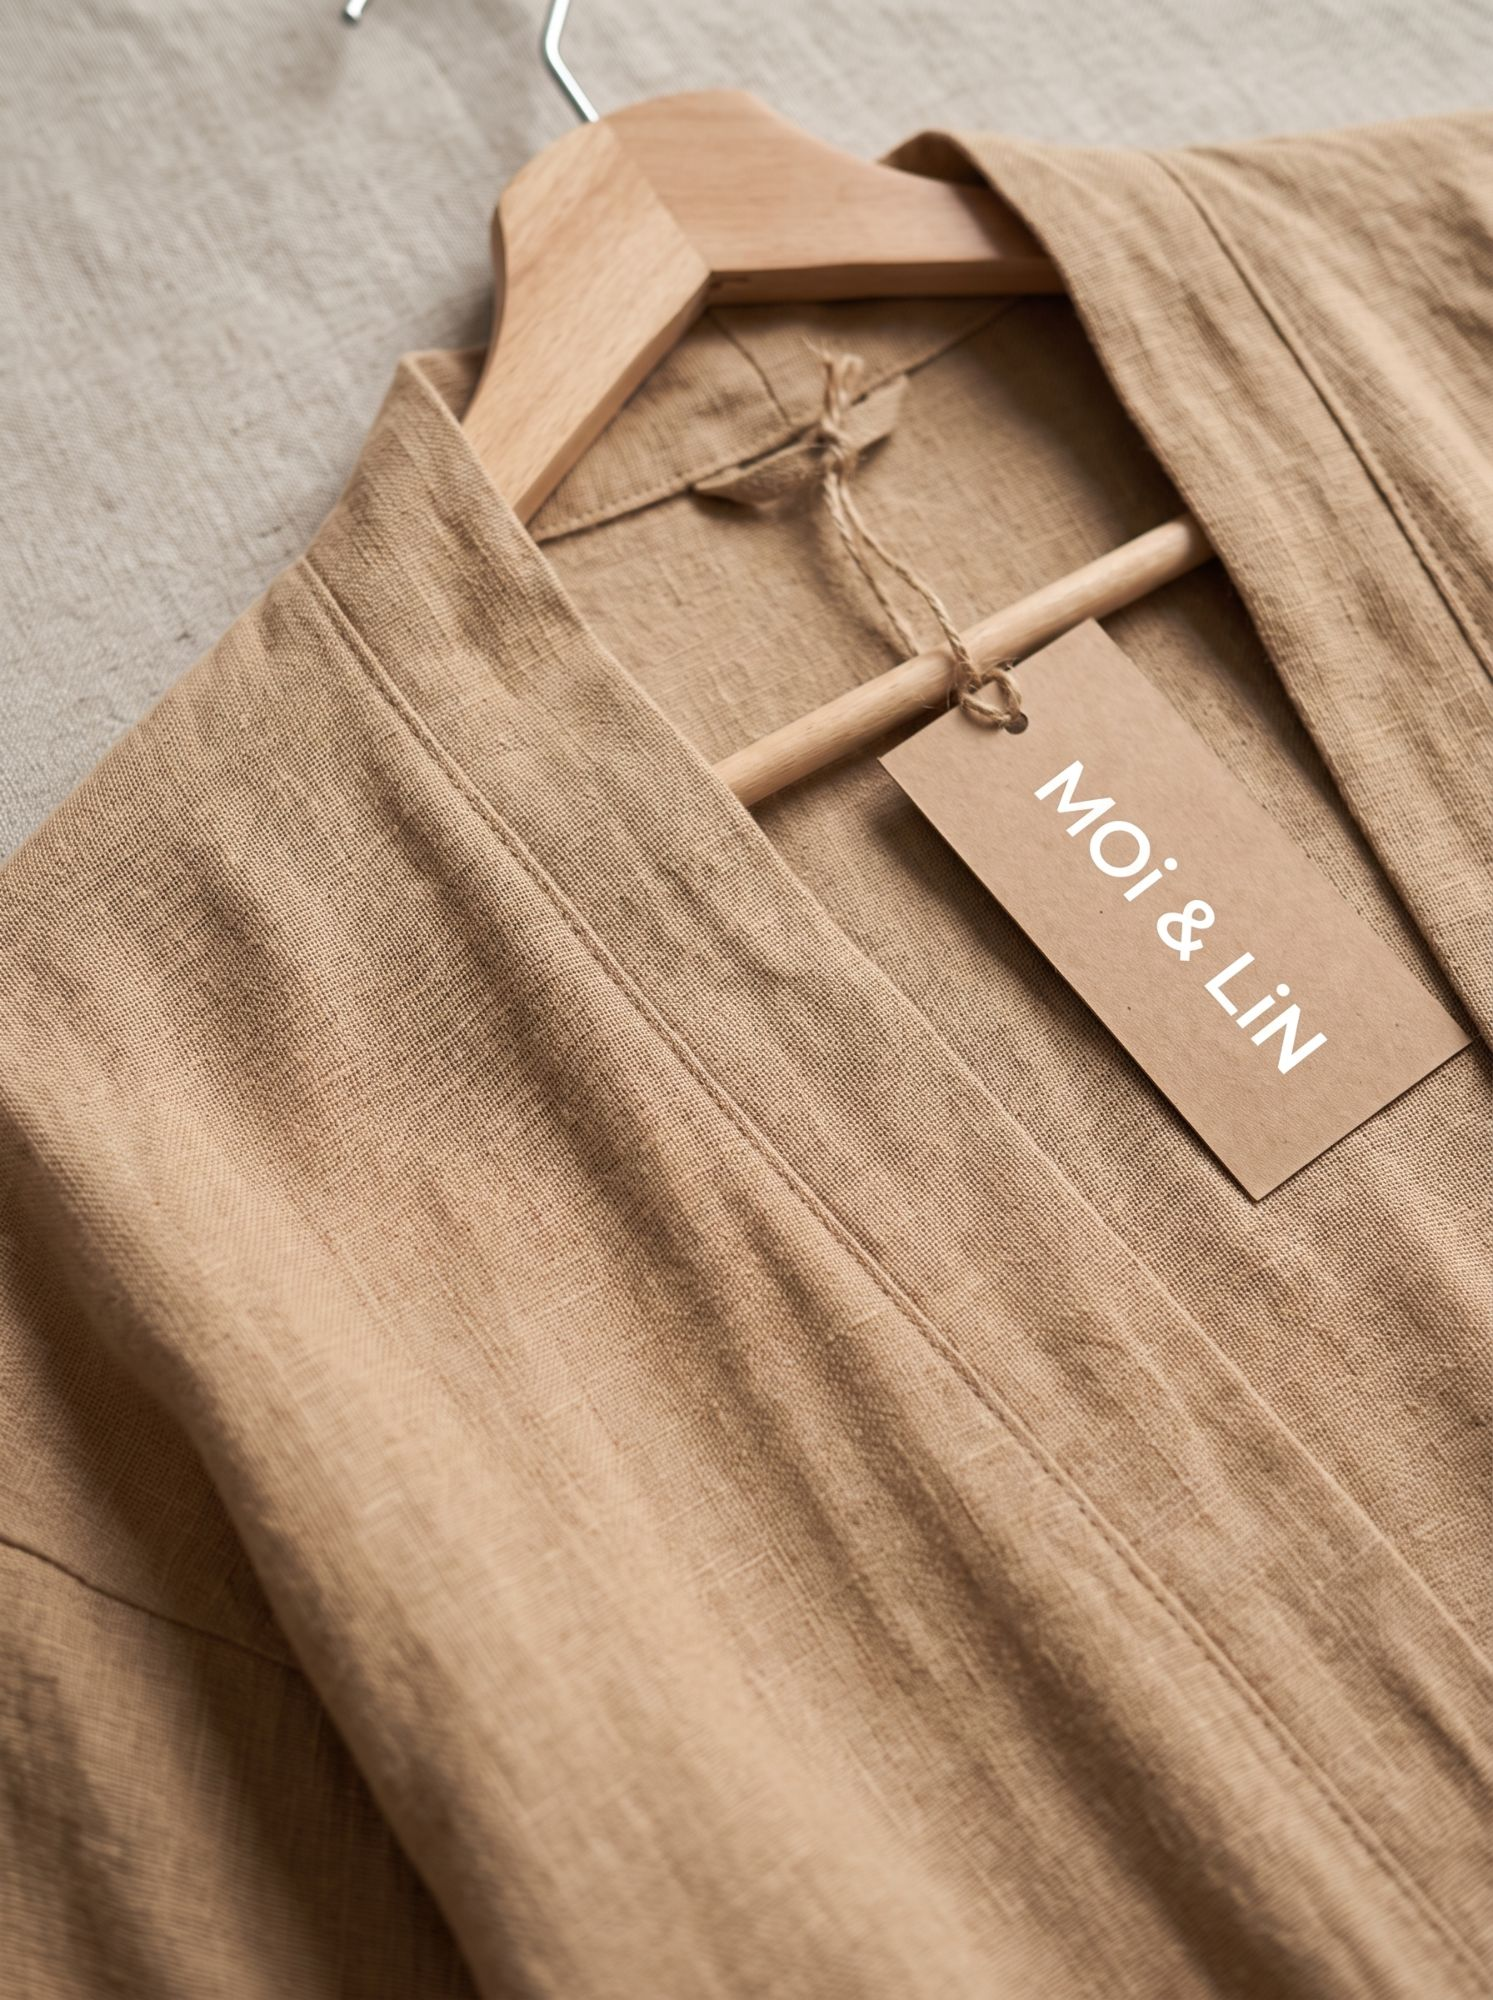
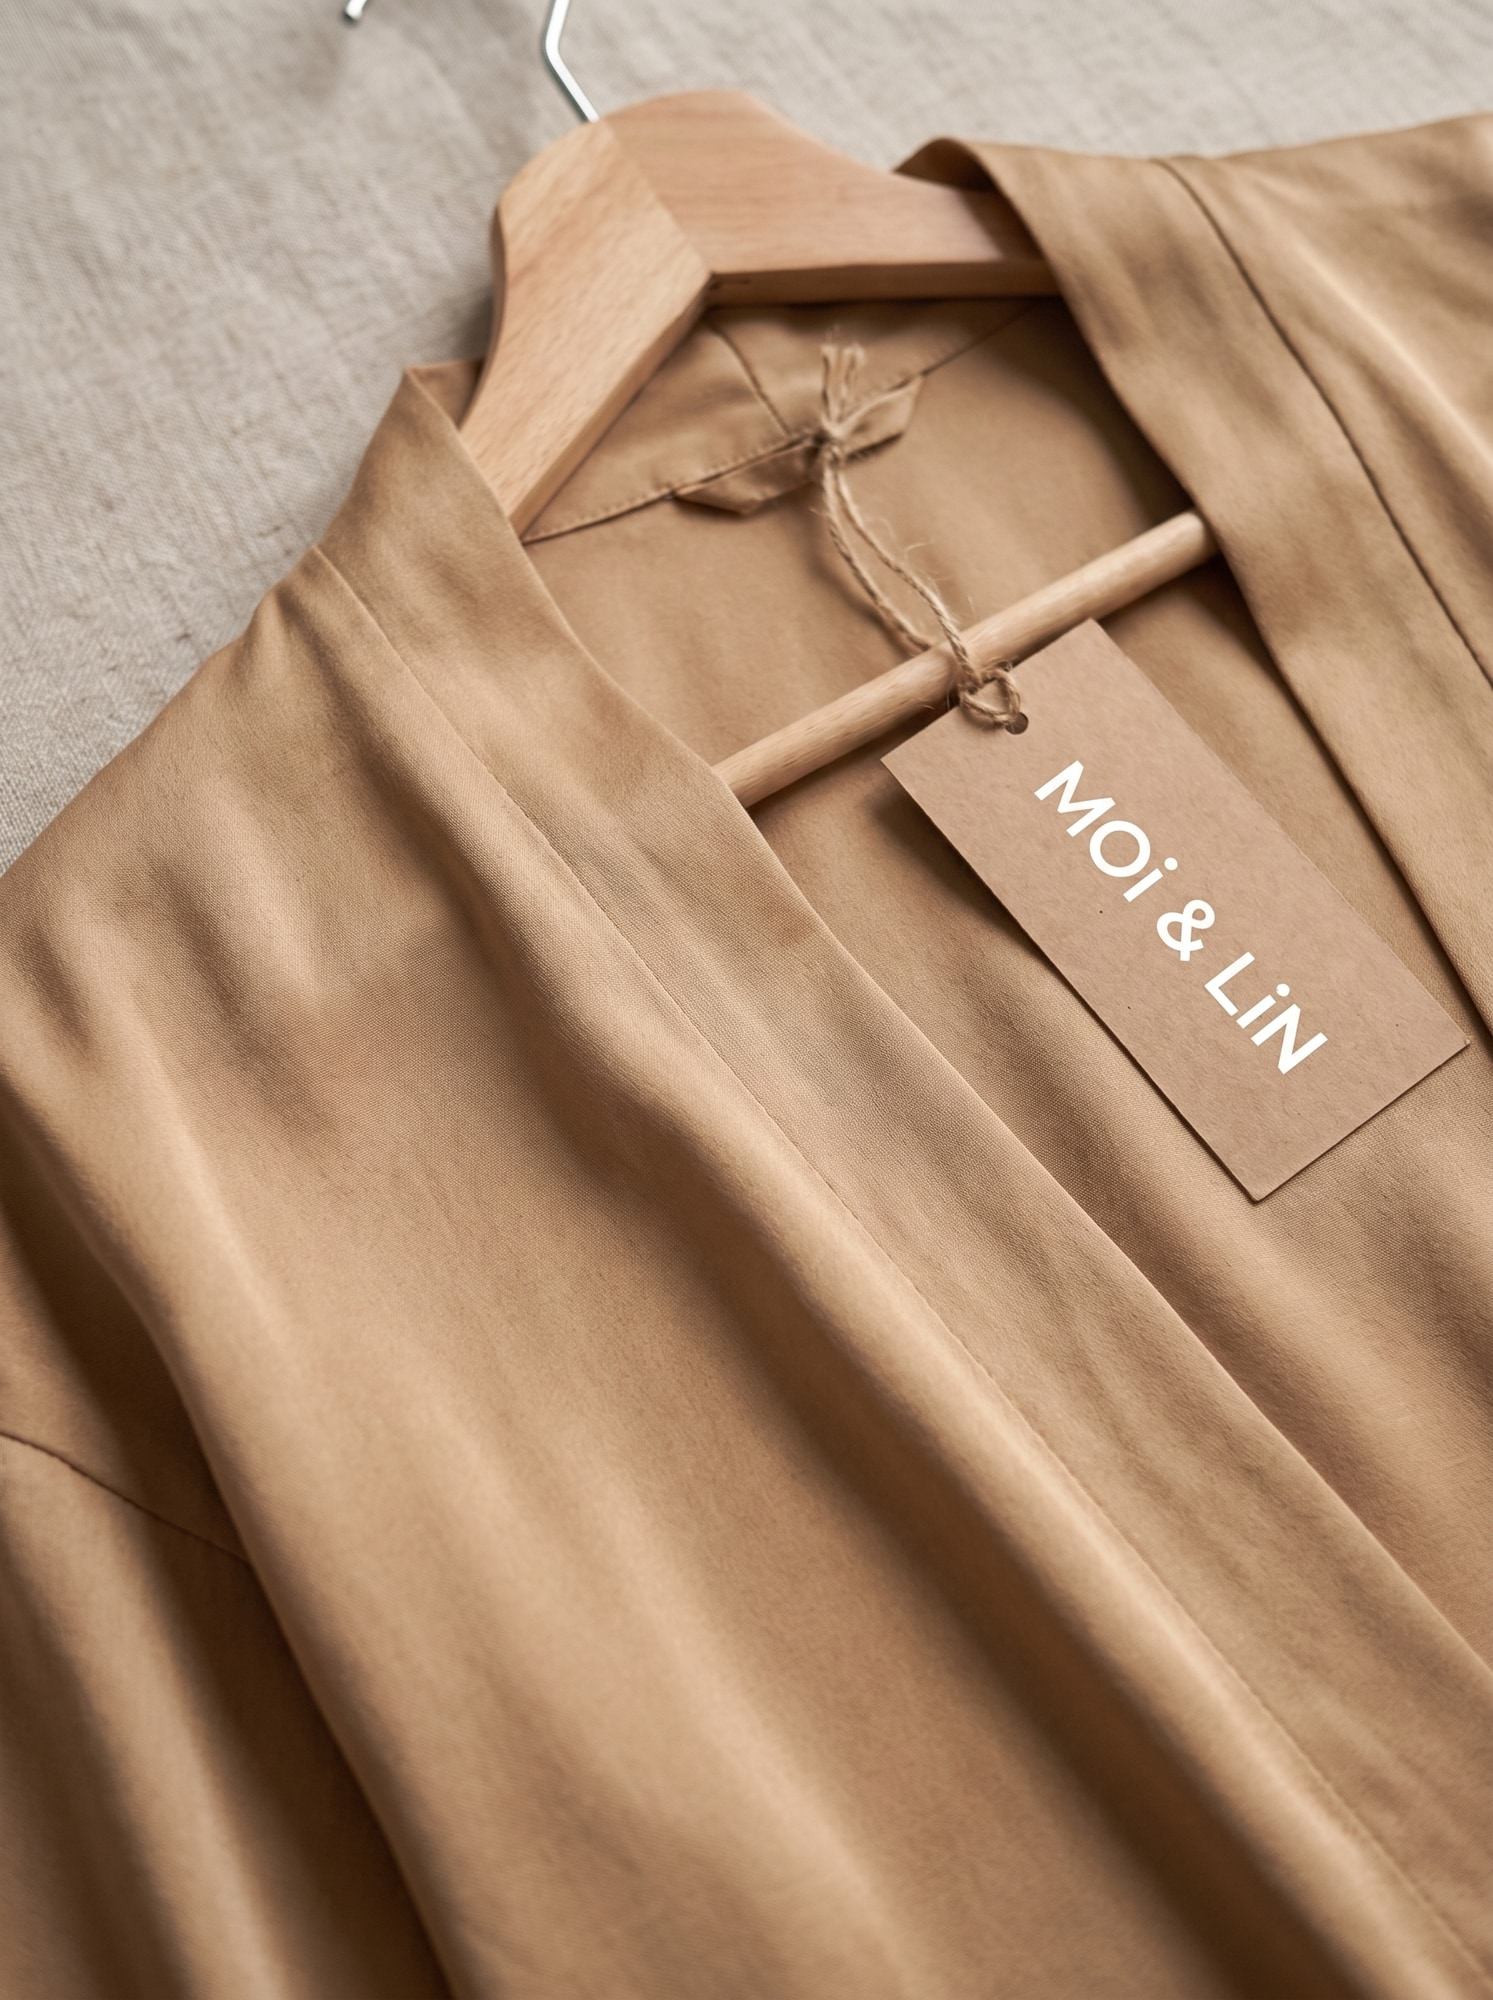
Revert Quiet Blue/Warm Neutrals naming, swap in new tile photography
- Drop the "Cotton "/"Silk " prefixes from the Quiet Blue and Warm
  Neutrals tile names and footer shop links across en/fr/de — keep the
  original names.
- Replace the Quiet Blue and Warm Neutrals tile photos with the
  provided reference photography (folded chambray shirt on the loom;
  camel shirt on a hanger with tag), cropped to the tile's 3:4 frame,
  and regenerate responsive image variants and the manifest.

diff --git a/site/src/i18n/de.js b/site/src/i18n/de.js
@@ -66,8 +66,8 @@ export default {
     viewAll: 'Alles ansehen',
     items: [
       { name: 'The Ivory Edit', descriptor: 'Essentielle Hemden aus dem Nildelta' },
-      { name: 'Cotton Quiet Blue', descriptor: 'Weich gewaschene Alltagsstücke' },
-      { name: 'Silk Warm Neutrals', descriptor: 'Farbtöne des Deltas' },
+      { name: 'Quiet Blue', descriptor: 'Weich gewaschene Alltagsstücke' },
+      { name: 'Warm Neutrals', descriptor: 'Farbtöne des Deltas' },
     ],
   },
 
@@ -191,7 +191,7 @@ export default {
   footer: {
     tagline: 'Hergestellt in Ägypten. Entworfen für Europa.',
     columns: {
-      shop: { title: 'Shop', links: ['Die Kollektion', 'The Ivory Edit', 'Cotton Quiet Blue', 'Silk Warm Neutrals'] },
+      shop: { title: 'Shop', links: ['Die Kollektion', 'The Ivory Edit', 'Quiet Blue', 'Warm Neutrals'] },
       about: { title: 'Über uns', links: ['Der Instinkt', 'Ägypten, 1998', 'Der Name', 'Unsere Partner'] },
       care: { title: 'Kundenservice', links: ['Größentabelle', 'Versand', 'Rückgabe', 'Kontakt'] },
     },

diff --git a/site/src/i18n/fr.js b/site/src/i18n/fr.js
@@ -66,8 +66,8 @@ export default {
     viewAll: 'Tout voir',
     items: [
       { name: 'The Ivory Edit', descriptor: 'Chemises essentielles du delta du Nil' },
-      { name: 'Cotton Quiet Blue', descriptor: 'Pièces du quotidien adoucies' },
-      { name: 'Silk Warm Neutrals', descriptor: 'Teintes du delta' },
+      { name: 'Quiet Blue', descriptor: 'Pièces du quotidien adoucies' },
+      { name: 'Warm Neutrals', descriptor: 'Teintes du delta' },
     ],
   },
 
@@ -191,7 +191,7 @@ export default {
   footer: {
     tagline: "Fabriqué en Égypte. Conçu pour l'Europe.",
     columns: {
-      shop: { title: 'Boutique', links: ['La collection', 'The Ivory Edit', 'Cotton Quiet Blue', 'Silk Warm Neutrals'] },
+      shop: { title: 'Boutique', links: ['La collection', 'The Ivory Edit', 'Quiet Blue', 'Warm Neutrals'] },
       about: { title: 'À propos', links: ["L'instinct", 'Égypte, 1998', 'Le nom', 'Nos partenaires'] },
       care: { title: 'Service client', links: ['Guide des tailles', 'Livraison', 'Retours', 'Contact'] },
     },

diff --git a/site/src/i18n/en.js b/site/src/i18n/en.js
@@ -64,8 +64,8 @@ export default {
     viewAll: 'View all',
     items: [
       { name: 'The Ivory Edit', descriptor: 'Essential Nile Delta shirting' },
-      { name: 'Cotton Quiet Blue', descriptor: 'Softened everyday pieces' },
-      { name: 'Silk Warm Neutrals', descriptor: 'Delta tones' },
+      { name: 'Quiet Blue', descriptor: 'Softened everyday pieces' },
+      { name: 'Warm Neutrals', descriptor: 'Delta tones' },
     ],
   },
 
@@ -189,7 +189,7 @@ export default {
   footer: {
     tagline: 'Made in Egypt. Designed for Europe.',
     columns: {
-      shop: { title: 'Shop', links: ['The collection', 'The Ivory Edit', 'Cotton Quiet Blue', 'Silk Warm Neutrals'] },
+      shop: { title: 'Shop', links: ['The collection', 'The Ivory Edit', 'Quiet Blue', 'Warm Neutrals'] },
       about: { title: 'About', links: ['The instinct', 'Egypt, 1998', 'The name', 'Our partners'] },
       care: { title: 'Customer care', links: ['Size guide', 'Shipping', 'Returns', 'Contact'] },
     },
